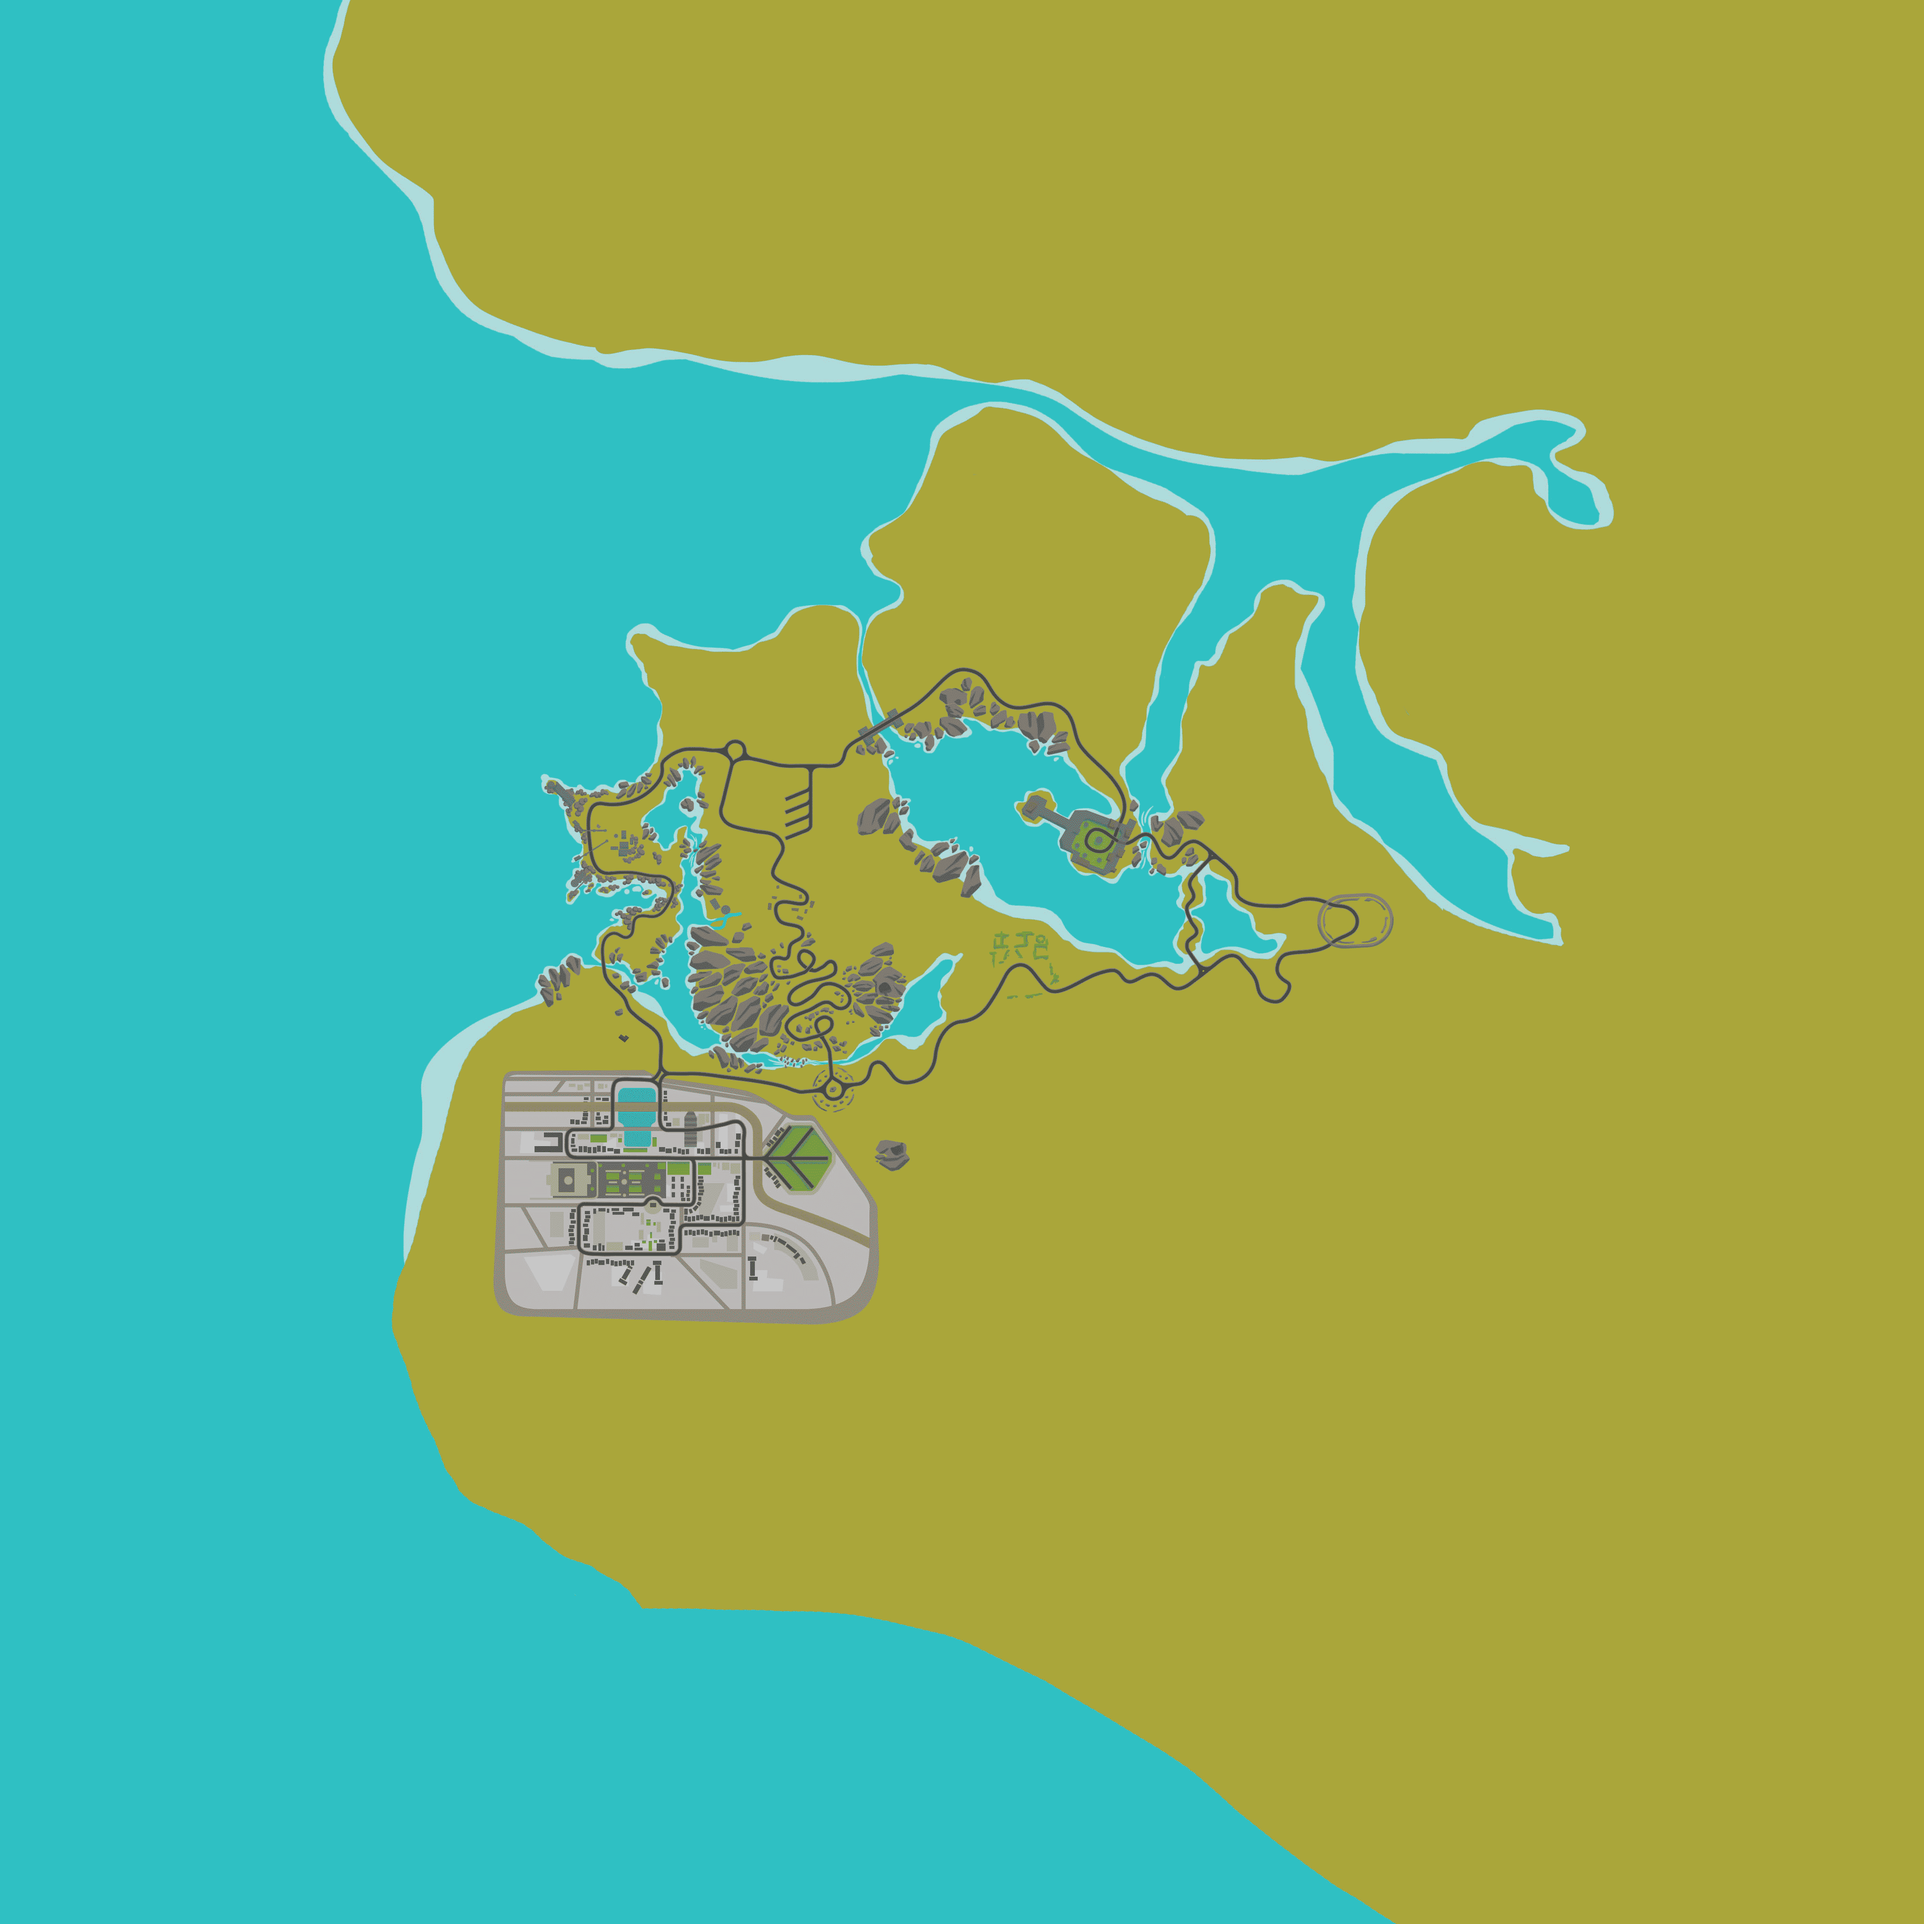
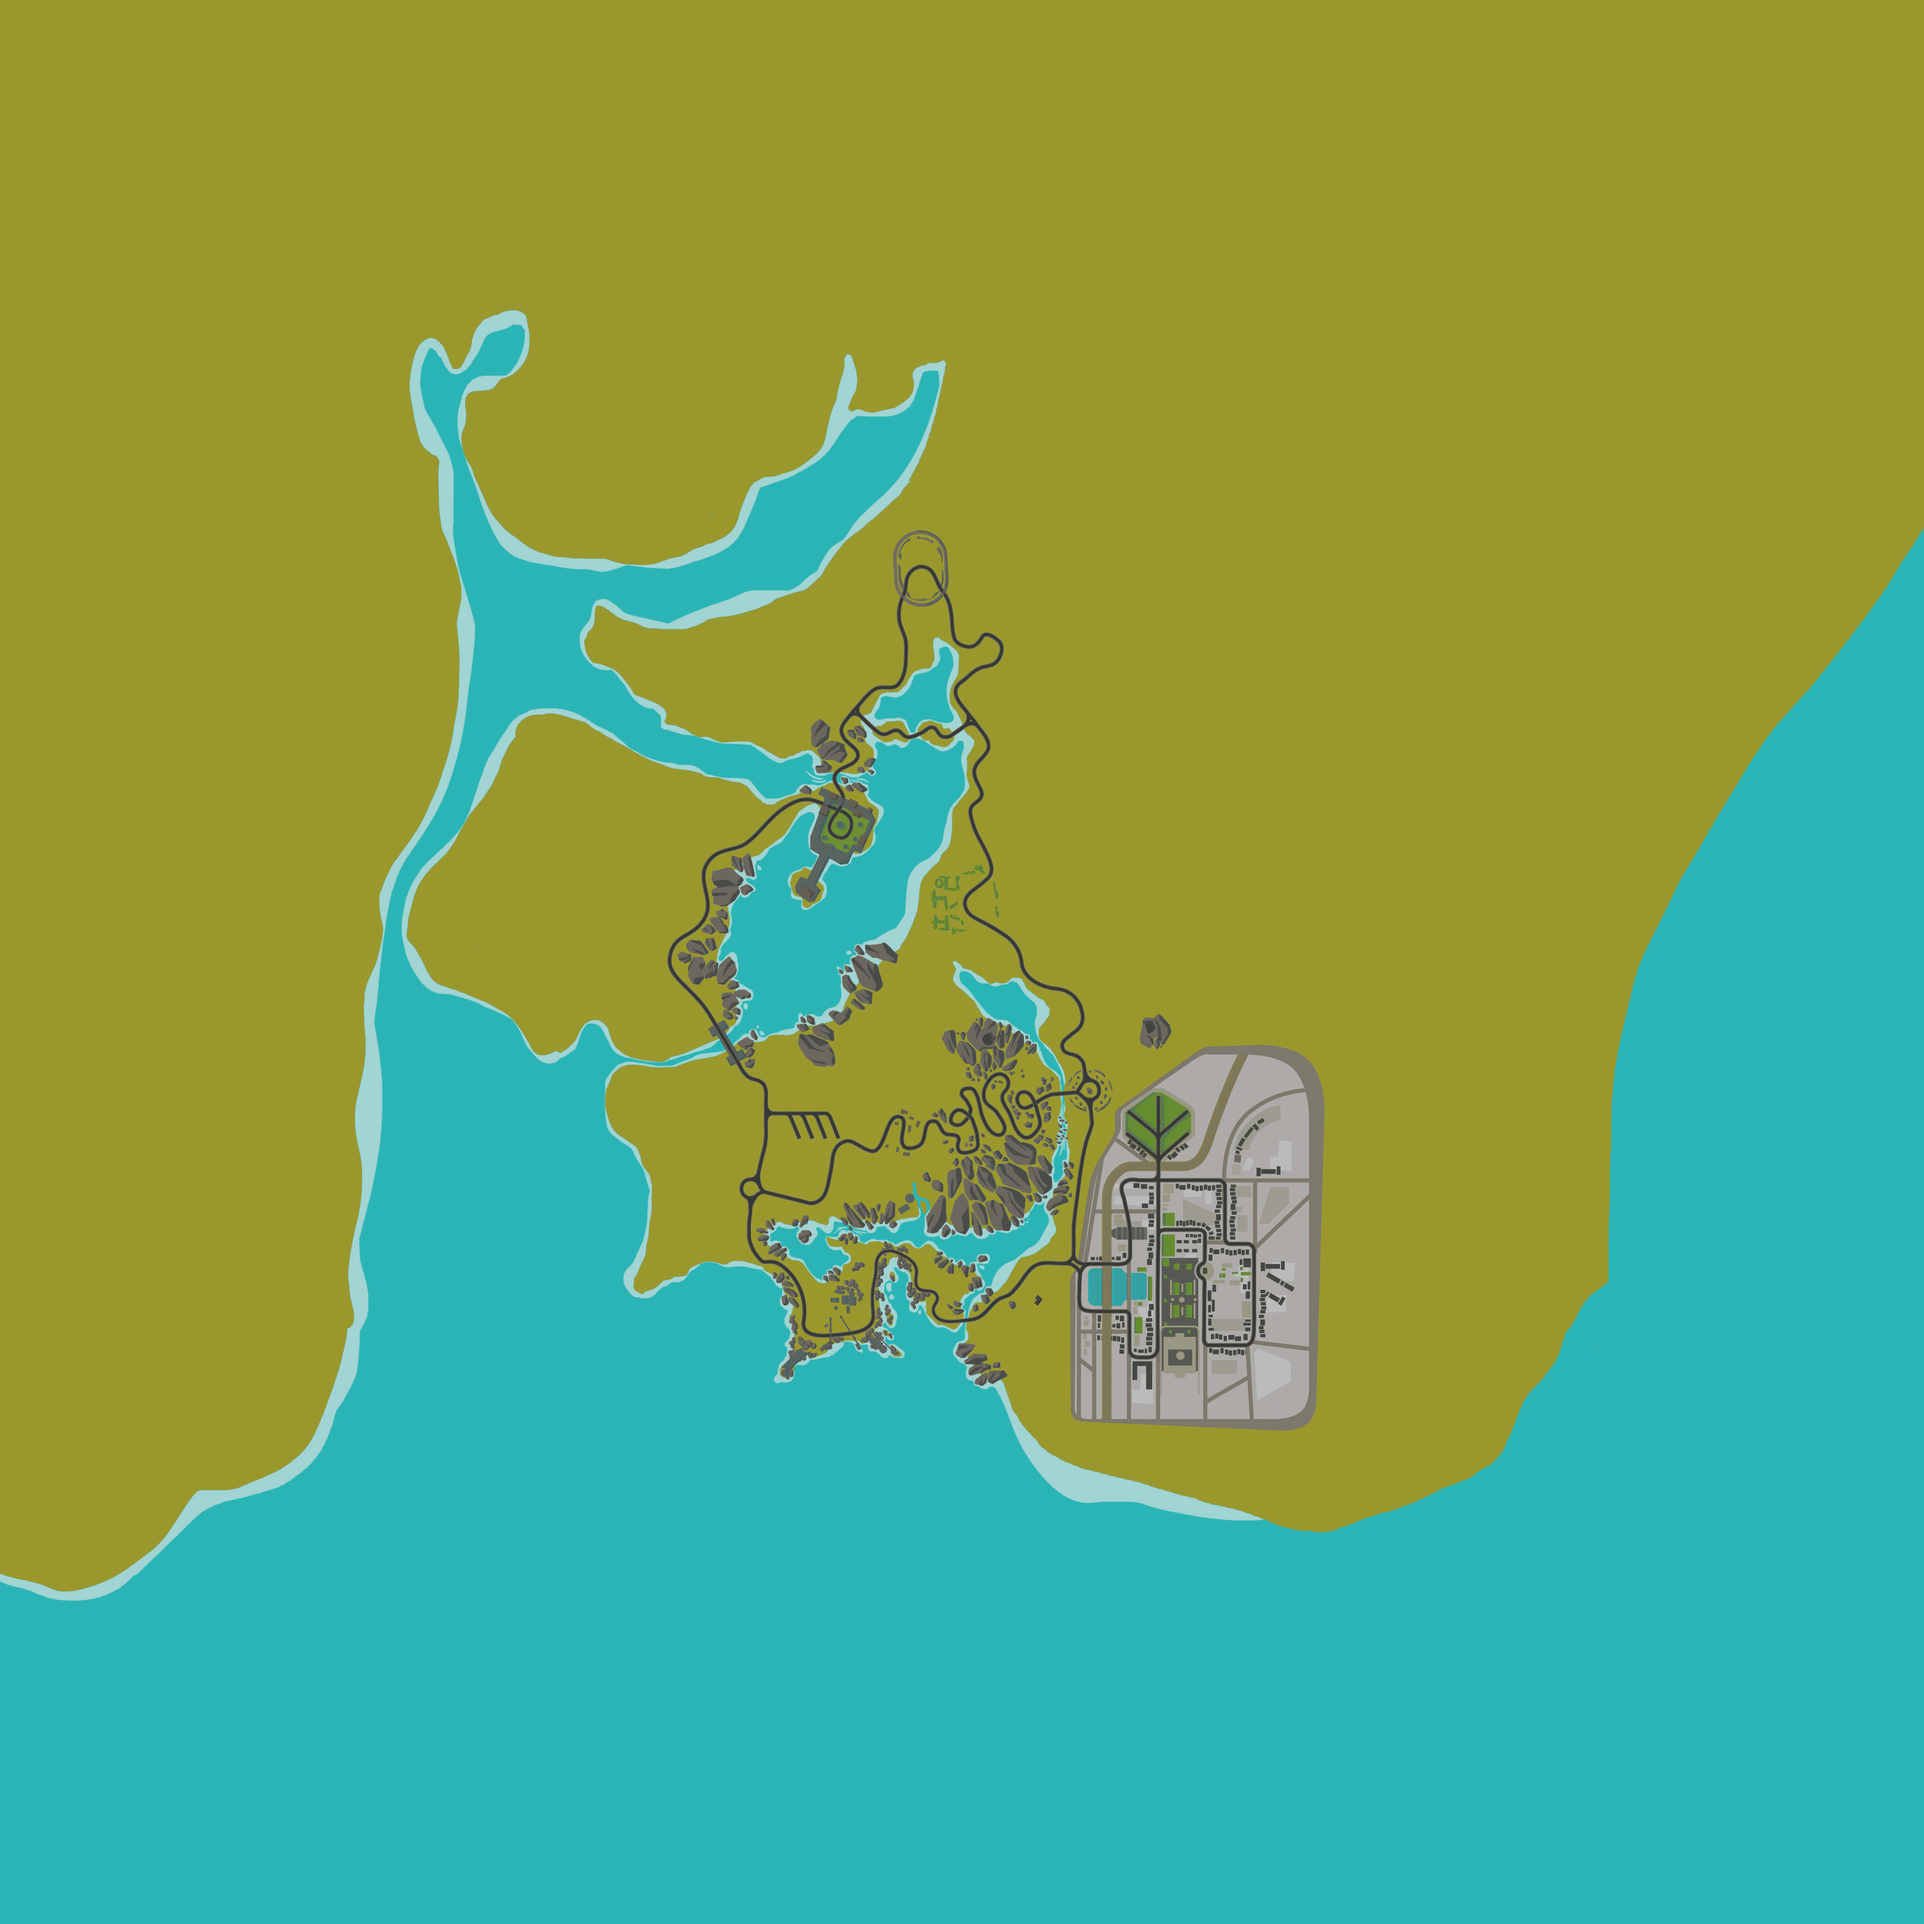
feat: scotland prep

diff --git a/backend/src/shared/browser/roads/roads/index.ts b/backend/src/shared/browser/roads/roads/index.ts
@@ -8,6 +8,7 @@ import makuriIslands from "./makuri-islands/index.js";
 import newYork from "./new-york/index.js";
 import paris from "./paris/index.js";
 import richmond from "./richmond/index.js";
+import scotland from "./scotland/index.js";
 import { Roads } from "./Roads.js";
 import watopia from "./watopia/index.js";
 import yorkshire from "./yorkshire/index.js";
@@ -22,6 +23,7 @@ export const WORLD_ROADS: Record<WorldSlug, () => Promise<Roads>> = {
   "makuri-islands": () => Promise.resolve(makuriIslands),
   "new-york": () => Promise.resolve(newYork),
   paris: () => Promise.resolve(paris),
+  scotland: () => Promise.resolve(scotland),
   richmond: () => Promise.resolve(richmond),
   watopia: () => Promise.resolve(watopia),
   yorkshire: () => Promise.resolve(yorkshire),

diff --git a/frontend/src/constants/worldConfigs/index.ts b/frontend/src/constants/worldConfigs/index.ts
@@ -9,6 +9,7 @@ import { WORLD_CONFIG_MAKURI_ISLANDS } from "./makuri-islands";
 import { WORLD_CONFIG_NEW_YORK } from "./newYork";
 import { WORLD_CONFIG_PARIS } from "./paris";
 import { WORLD_CONFIG_RICHMOND } from "./richmond";
+import { WORLD_CONFIG_SCOTLAND } from "./scotland";
 import { WORLD_CONFIG_WATOPIA } from "./watopia";
 import { WORLD_CONFIG_YORKSHIRE } from "./yorkshire";
 
@@ -22,6 +23,7 @@ export const worldConfigs: Record<WorldSlug, WorldConfig> = {
   "new-york": WORLD_CONFIG_NEW_YORK,
   paris: WORLD_CONFIG_PARIS,
   richmond: WORLD_CONFIG_RICHMOND,
+  scotland: WORLD_CONFIG_SCOTLAND,
   watopia: WORLD_CONFIG_WATOPIA,
   yorkshire: WORLD_CONFIG_YORKSHIRE,
 };

diff --git a/frontend/src/constants/worldConfigs/scotland.ts b/frontend/src/constants/worldConfigs/scotland.ts
@@ -1,0 +1,12 @@
+import scotlandMap from "../../maps/scotland.png";
+import { WorldConfig } from "../../types";
+
+export const WORLD_CONFIG_SCOTLAND: WorldConfig = {
+  initialBounds: [
+    [55.67595, -5.28053],
+    [55.6185, -5.17753],
+  ],
+  image: scotlandMap,
+  backgroundColor: "#aba73a",
+  surfaces: [],
+};

diff --git a/backend/src/shared/browser/roads/roads/scotland/index.ts b/backend/src/shared/browser/roads/roads/scotland/index.ts
@@ -1,0 +1,5 @@
+import { Roads } from "../Roads.js";
+
+const ROADS = new Roads();
+
+export default ROADS;
